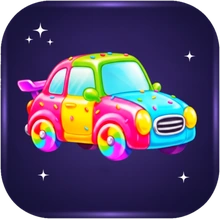
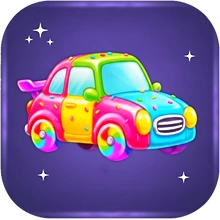
v326: a lighter navy behind the car button

diff --git a/sw.js b/sw.js
@@ -1,5 +1,5 @@
 /* Candoku service worker: cache the app shell so it works offline. Bump VERSION on each release. */
-const VERSION = 'candoku-v325';
+const VERSION = 'candoku-v326';
 const FILES = ['./', 'index.html', 'style.css', 'engine.js', 'hints.js', 'boardworker.js', 'seeds.js', 'sound.js', 'music.js', 'voice.js', 'app.js', 'manifest.webmanifest', 'icon-192.png', 'icon-180.png', 'icon-192.png', 'icon-512.png', 'icon-maskable-512.png', 'icons/lollipop.png', 'icons/candy.png', 'icons/chocolate_bar.png', 'icons/doughnut.png', 'icons/cupcake.png', 'icons/cookie.png', 'icons/cherries.png', 'icons/soft_ice_cream.png', 'icons/shortcake.png', 'icons/dango.png', 'art/bg_0.jpg', 'art/bg_1.jpg', 'art/bg_2.jpg', 'art/bg_3.jpg', 'art/bg_4.jpg', 'art/bg_5.jpg', 'art/bg_6.jpg', 'art/bg_7.jpg', 'art/bg_8.jpg', 'art/ic_undo.webp', 'art/ic_hint.webp', 'art/ic_wand.webp', 'art/ic_maybe.webp', 'art/ic_restart.webp', 'art/ic_coin.webp', 'art/ic_chest.webp', 'art/ic_wheel.webp', 'art/ic_games.webp', 'art/nav_gifts.webp', 'art/nav_quests.webp', 'art/nav_home.webp', 'art/nav_shop.webp', 'art/nav_rank.webp', 'art/ic_heart.webp', 'art/ic_heart_off.webp', 'art/cd_lollipop.webp', 'art/cd_candy.webp', 'art/cd_chocolate_bar.webp', 'art/cd_doughnut.webp', 'art/cd_cupcake.webp', 'art/cd_cookie.webp', 'art/cd_cherries.webp', 'art/cd_soft_ice_cream.webp', 'art/cd_shortcake.webp', 'art/cd_dango.webp', 'art/tool_undo.webp', 'art/tool_hint.webp', 'art/tool_wand.webp', 'art/tool_maybe.webp', 'art/tool_maybe_green.webp', 'art/tool_restart.webp', 'art/ribbon.webp', 'art/ribbon_teal.webp', 'art/panel_blue.webp', 'art/ic_shield.webp', 'art/ic_double.webp', 'art/ic_sweeper.webp', 'art/ic_lens.webp', 'audio/voice/reward1.mp3', 'audio/voice/reward2.mp3', 'audio/voice/reward3.mp3', 'audio/voice/bigreward.mp3', 'audio/voice/wandget.mp3', 'art/gumi_pirate.webp', 'art/gumi_astronaut.webp', 'art/gumi_chef.webp', 'art/gumi_ninja.webp', 'art/btn_green.webp', 'art/btn_orange.webp', 'art/btn_blue.webp', 'art/logo.webp', 'art/ribbon_0.webp', 'art/ribbon_1.webp', 'art/ribbon_2.webp', 'art/ribbon_3.webp', 'art/ribbon_4.webp', 'art/ribbon_5.webp', 'art/ribbon_6.webp', 'art/ribbon_7.webp', 'art/ribbon_8.webp', 'art/ribbon_9.webp', 'art/gumi_win.webp', 'art/gumi_jump.webp', 'art/shoot_bg.jpg', 'art/cart_bg2.jpg', 'art/shoot_cannon.webp', 'art/shoot_ball.webp', 'art/shoot_ball_y.webp', 'art/shoot_ball_b.webp', 'art/shoot_ball_g.webp', 'art/shoot_hole.webp', 'art/cart_rock.webp', 'art/cart_bear2.webp', 'art/cart_rival2.webp',  'art/hoop_machine.jpg', 'art/hoop_ring.webp', 'art/hoop_ball_g.webp', 'art/hoop_ball_r.webp', 'art/climb_plat.webp', 'art/ev_climb.webp', 'art/ui_btn_icon.webp', 'art/ui_pill_dark.webp', 'art/ui_pill_cream.webp', 'art/node_blue.webp', 'art/node_hard.webp', 'art/node_vhard.webp', 'art/node_extreme.webp', 'art/node_lock.webp', 'art/ev_shooter.webp', 'art/ev_hoop.webp', 'art/ev_cart.webp', 'art/ev_pass.webp', 'art/ev_rush.webp', 'art/ev_memory.webp', 'art/ev_toss.webp', 'art/ev_odd.webp', 'art/ev_jars.webp',  'art/3d_qcard.webp', 'art/3d_chest_small.webp', 'art/3d_chest_med.webp', 'art/3d_chest_large.webp', 'art/gumi_pirate_stand.webp', 'art/gumi_pirate_win.webp', 'art/gumi_cowboy_stand.webp', 'art/gumi_cowboy_win.webp', 'art/gumi_wizard_stand.webp', 'art/gumi_wizard_win.webp', 'art/gumi_king_stand.webp', 'art/gumi_king_win.webp', 'art/gumi_ninja_stand.webp', 'art/gumi_ninja_win.webp',  'art/gumi_chef_stand.webp', 'art/gumi_chef_win.webp', 'art/gumi_fire_stand.webp', 'art/gumi_fire_win.webp', 'art/gumi_blink.webp', 'art/gumi_sad.webp', 'art/tool_restart_red.webp', 'art/wheel_ring.webp', 'art/wheel_hub.webp', 'art/wheel_pointer.webp', 'art/tool_sweeper.webp', 'art/tool_lens.webp', 'art/gumi.webp', 'art/gumi_hero.webp', 'art/star_gold.webp', 'art/star_grey.webp', 'art/gumi_blue.webp', 'art/gumi_red.webp', 'art/panel.webp', 'audio/sfx/n0.mp3', 'audio/sfx/n1.mp3', 'audio/sfx/n2.mp3', 'audio/sfx/n3.mp3', 'audio/sfx/n4.mp3', 'audio/sfx/n5.mp3', 'audio/sfx/n6.mp3', 'audio/sfx/n7.mp3', 'audio/sfx/n8.mp3', 'audio/sfx/fanfare.mp3', 'audio/sfx/stars.mp3', 'audio/music/w4.mp3', 'audio/music/w5.mp3', 'audio/music/w6.mp3', 'audio/music/w7.mp3', 'audio/music/w8.mp3', 'audio/music/menu.mp3', 'audio/music/w0.mp3', 'audio/music/w1.mp3', 'audio/music/w2.mp3', 'audio/music/w3.mp3', 'audio/voice/close.mp3', 'audio/voice/delicious.mp3', 'audio/voice/divine.mp3', 'audio/voice/first.mp3', 'audio/voice/go.mp3', 'audio/voice/hard.mp3', 'audio/voice/intro1.mp3', 'audio/voice/intro2.mp3', 'audio/voice/intro3.mp3', 'audio/voice/letsplay.mp3', 'audio/voice/lose.mp3', 'audio/voice/nice.mp3', 'audio/voice/perfect.mp3', 'audio/voice/ready.mp3', 'audio/voice/sugartastic.mp3', 'audio/voice/tasty.mp3', 'audio/voice/veryhard.mp3', 'audio/voice/extremehard.mp3', 'audio/voice/verytasty.mp3', 'audio/voice/welcome.mp3', 'audio/voice/yummy.mp3', 'audio/voice/es/mmmsweet.mp3', 'audio/voice/es/sugarrush.mp3', 'audio/voice/es/candylicious.mp3', 'audio/voice/es/sosweet.mp3', 'audio/voice/es/bontastic.mp3', 'audio/voice/es/treattastic.mp3', 'audio/voice/es/whatatreat.mp3', 'audio/voice/es/f/first.mp3', 'audio/voice/es/f/yummy.mp3', 'audio/voice/es/f/tasty.mp3', 'audio/voice/es/f/nice.mp3', 'audio/voice/es/f/delicious.mp3', 'audio/voice/es/f/verytasty.mp3', 'audio/voice/es/f/mmmsweet.mp3', 'audio/voice/es/f/sugarrush.mp3', 'audio/voice/es/f/candylicious.mp3', 'audio/voice/es/f/sosweet.mp3', 'audio/voice/es/f/bontastic.mp3', 'audio/voice/es/f/treattastic.mp3', 'audio/voice/es/f/whatatreat.mp3', 'audio/voice/f/first.mp3', 'audio/voice/f/yummy.mp3', 'audio/voice/f/tasty.mp3', 'audio/voice/f/nice.mp3', 'audio/voice/f/delicious.mp3', 'audio/voice/f/verytasty.mp3', 'audio/voice/f/mmmsweet.mp3', 'audio/voice/f/sugarrush.mp3', 'audio/voice/f/candylicious.mp3', 'audio/voice/f/sosweet.mp3', 'audio/voice/f/bontastic.mp3', 'audio/voice/f/treattastic.mp3', 'audio/voice/f/whatatreat.mp3', 'audio/voice/whatatreat.mp3', 'audio/voice/mmmsweet.mp3', 'audio/voice/sugarrush.mp3', 'audio/voice/candylicious.mp3', 'audio/voice/sosweet.mp3', 'audio/voice/gumtastic.mp3', 'audio/voice/bontastic.mp3', 'audio/voice/treattastic.mp3', 'art/3d_cake_1.webp', 'art/3d_cake_2.webp', 'art/3d_cake_3.webp', 'art/cake_stage_1.webp', 'art/cake_stage_2.webp', 'art/cake_stage_3.webp', 'art/ic_sugarstar.webp', 'art/ic_bomb.webp', 'art/ic_car.webp', 'art/ic_rocket.webp', 'art/tool_car.webp', 'art/tool_rocket.webp', 'audio/voice/z0.mp3', 'audio/voice/z1.mp3', 'audio/voice/z2.mp3', 'audio/voice/z3.mp3', 'audio/voice/z4.mp3', 'audio/voice/z5.mp3', 'audio/voice/z6.mp3', 'audio/voice/z7.mp3', 'audio/voice/z8.mp3'];
 const CORE = ['./', 'index.html', 'manifest.webmanifest', 'art/splash_4k.jpg', 'art/logo_bonbox_hd.webp'];
 self.addEventListener('install', (e) => {

diff --git a/index.html b/index.html
@@ -14,7 +14,7 @@
 <link rel="apple-touch-icon" href="icon-180.png?v=85">
 <link rel="preconnect" href="https://fonts.googleapis.com"><link rel="preconnect" href="https://fonts.gstatic.com" crossorigin>
 <link rel="stylesheet" href="https://fonts.googleapis.com/css2?family=Nunito:wght@700;800;900&display=swap" media="print" onload="this.media='all'">
-<link rel="stylesheet" href="style.css?v=325">
+<link rel="stylesheet" href="style.css?v=326">
 <link rel="preload" as="image" href="art/splash_4k.jpg?b2"><link rel="preload" as="image" href="art/logo_bonbox_hd.webp">
 <style>
[1 lines of base64/hex data omitted]
@@ -204,12 +204,12 @@
     <button class="btn" id="wandBtn" type="button" aria-label="Magic wand" title="Magic wand"><img loading="lazy" decoding="async" class="tico" src="art/tool_wand.webp" alt="" draggable="false"><i class="badge" id="wandBadge">0</i></button>
     <button class="btn" id="sweepBtn" type="button" aria-label="Sweeper" title="Sweeper"><img loading="lazy" decoding="async" class="tico" src="art/tool_sweeper.webp?3" alt="" draggable="false"><i class="badge" id="sweepBtnBadge">0</i></button>
     <button class="btn" id="lensBtn" type="button" aria-label="Magnifier" title="Magnifier"><img loading="lazy" decoding="async" class="tico" src="art/tool_lens.webp" alt="" draggable="false"><i class="badge" id="lensBtnBadge">0</i></button>
-    <button class="btn" id="carBtn" type="button" aria-label="Gummy Car" title="Gummy Car"><img decoding="async" class="tico" src="art/tool_car.webp?5" alt="" draggable="false"><i class="badge" id="carBtnBadge">0</i></button>
+    <button class="btn" id="carBtn" type="button" aria-label="Gummy Car" title="Gummy Car"><img decoding="async" class="tico" src="art/tool_car.webp?6" alt="" draggable="false"><i class="badge" id="carBtnBadge">0</i></button>
     <button class="btn" id="rocketBtn" type="button" aria-label="Candy Rocket" title="Candy Rocket"><img decoding="async" class="tico" src="art/tool_rocket.webp?3" alt="" draggable="false"><i class="badge" id="rocketBtnBadge">0</i></button>
     <button class="btn" id="maybeBtn" hidden type="button" aria-pressed="false" aria-label="Maybe" title="Maybe"><img loading="lazy" decoding="async" class="tico" src="art/tool_maybe.webp" alt="" draggable="false"></button>
     <button class="btn" id="clearBtn" hidden type="button" aria-label="Restart" title="Restart"><img loading="lazy" decoding="async" class="tico" src="art/tool_restart_red.webp" alt="" draggable="false"></button>
   </div>
-  <p class="help">Tap: X (tap again to remove). Double tap: candy. Hold a square or use Maybe to mark a ? <span class="ver">v325</span></p>
+  <p class="help">Tap: X (tap again to remove). Double tap: candy. Hold a square or use Maybe to mark a ? <span class="ver">v326</span></p>
 </main>
 
 <!-- WIN -->
@@ -632,13 +632,13 @@
   <button type="button" id="navShop"><img loading="lazy" decoding="async" class="navico" src="art/nav_shop.webp" alt="" draggable="false"><span>Shop</span></button>
   <button type="button" id="navRank"><img loading="lazy" decoding="async" class="navico" src="art/nav_rank.webp" alt="" draggable="false"><span>Ranking</span></button>
 </nav>
-<script src="i18n.js?v=325"></script>
-<script src="engine.js?v=325"></script>
-<script src="hints.js?v=325"></script>
-<script src="seeds.js?v=325"></script>
-<script src="sound.js?v=325"></script>
-<script src="music.js?v=325"></script>
-<script src="voice.js?v=325"></script>
-<script src="app.js?v=325"></script>
+<script src="i18n.js?v=326"></script>
+<script src="engine.js?v=326"></script>
+<script src="hints.js?v=326"></script>
+<script src="seeds.js?v=326"></script>
+<script src="sound.js?v=326"></script>
+<script src="music.js?v=326"></script>
+<script src="voice.js?v=326"></script>
+<script src="app.js?v=326"></script>
 </body>
 </html>
